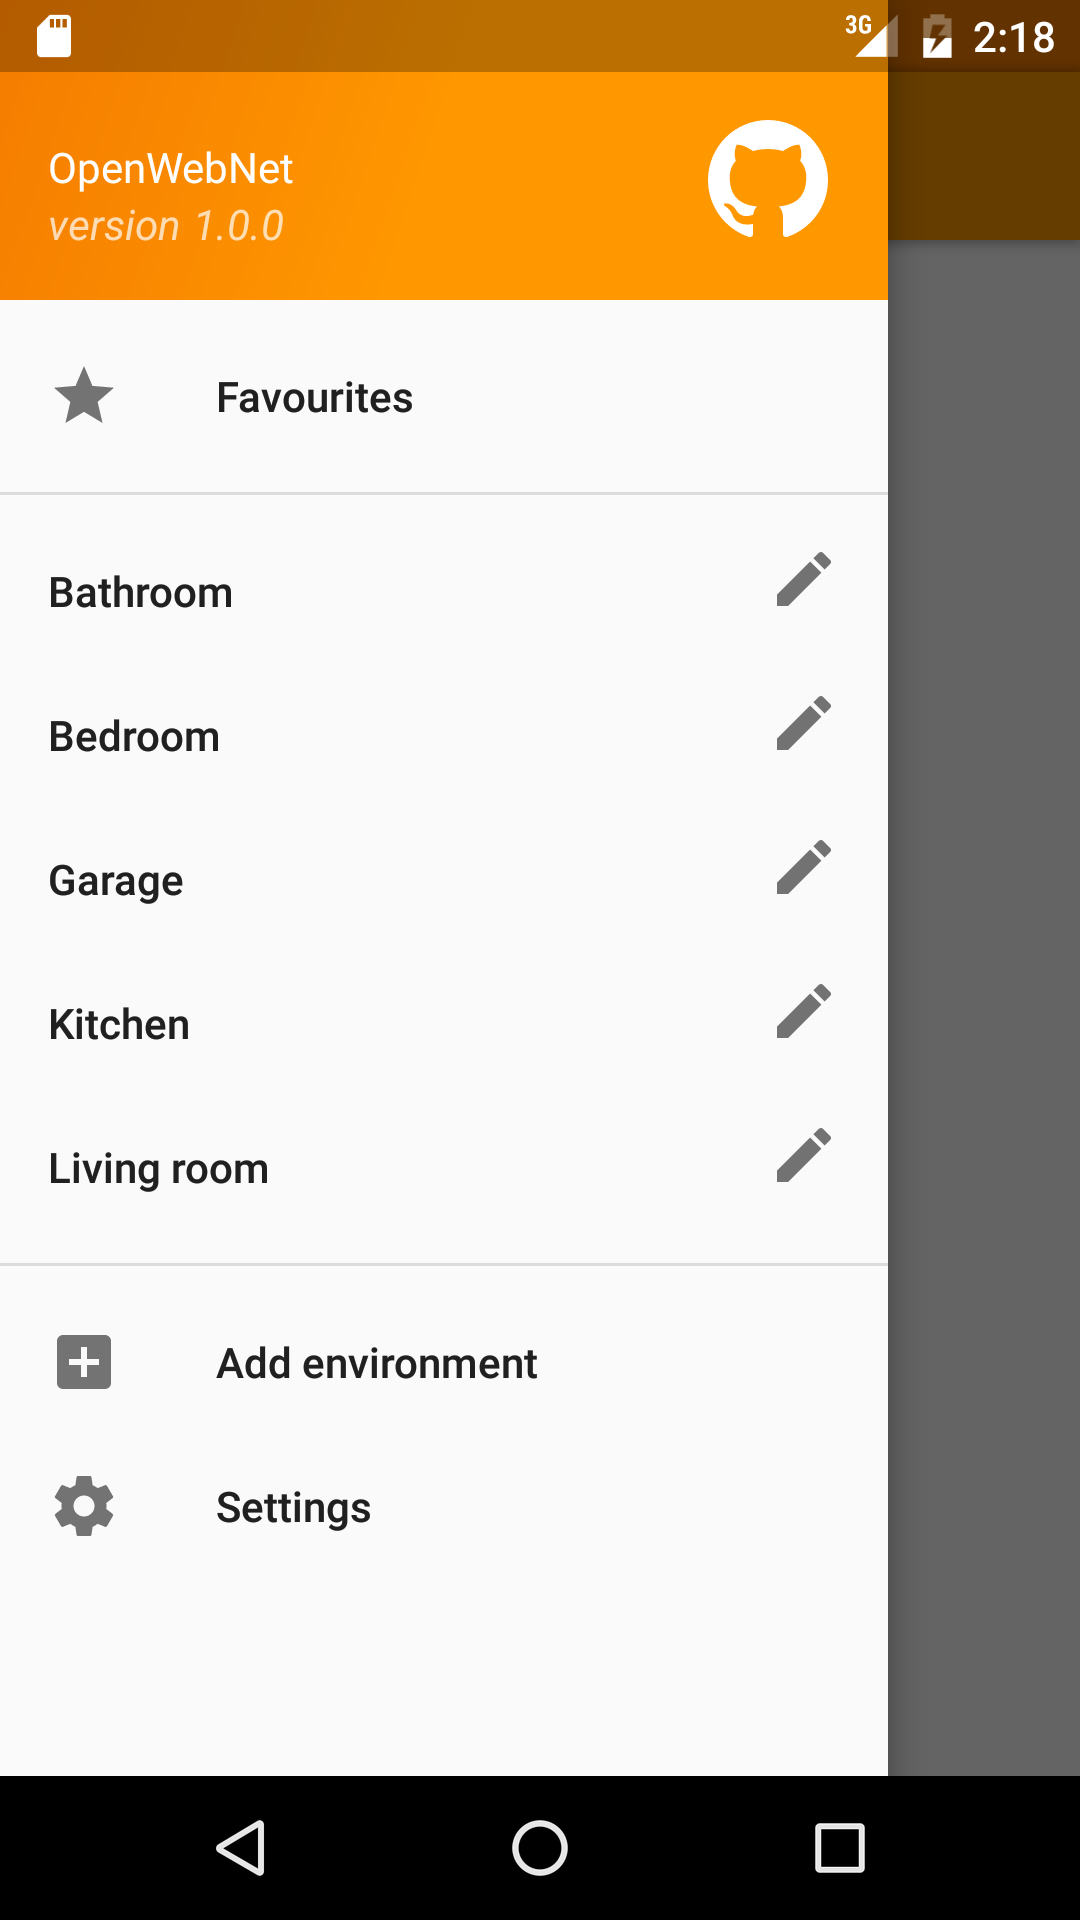
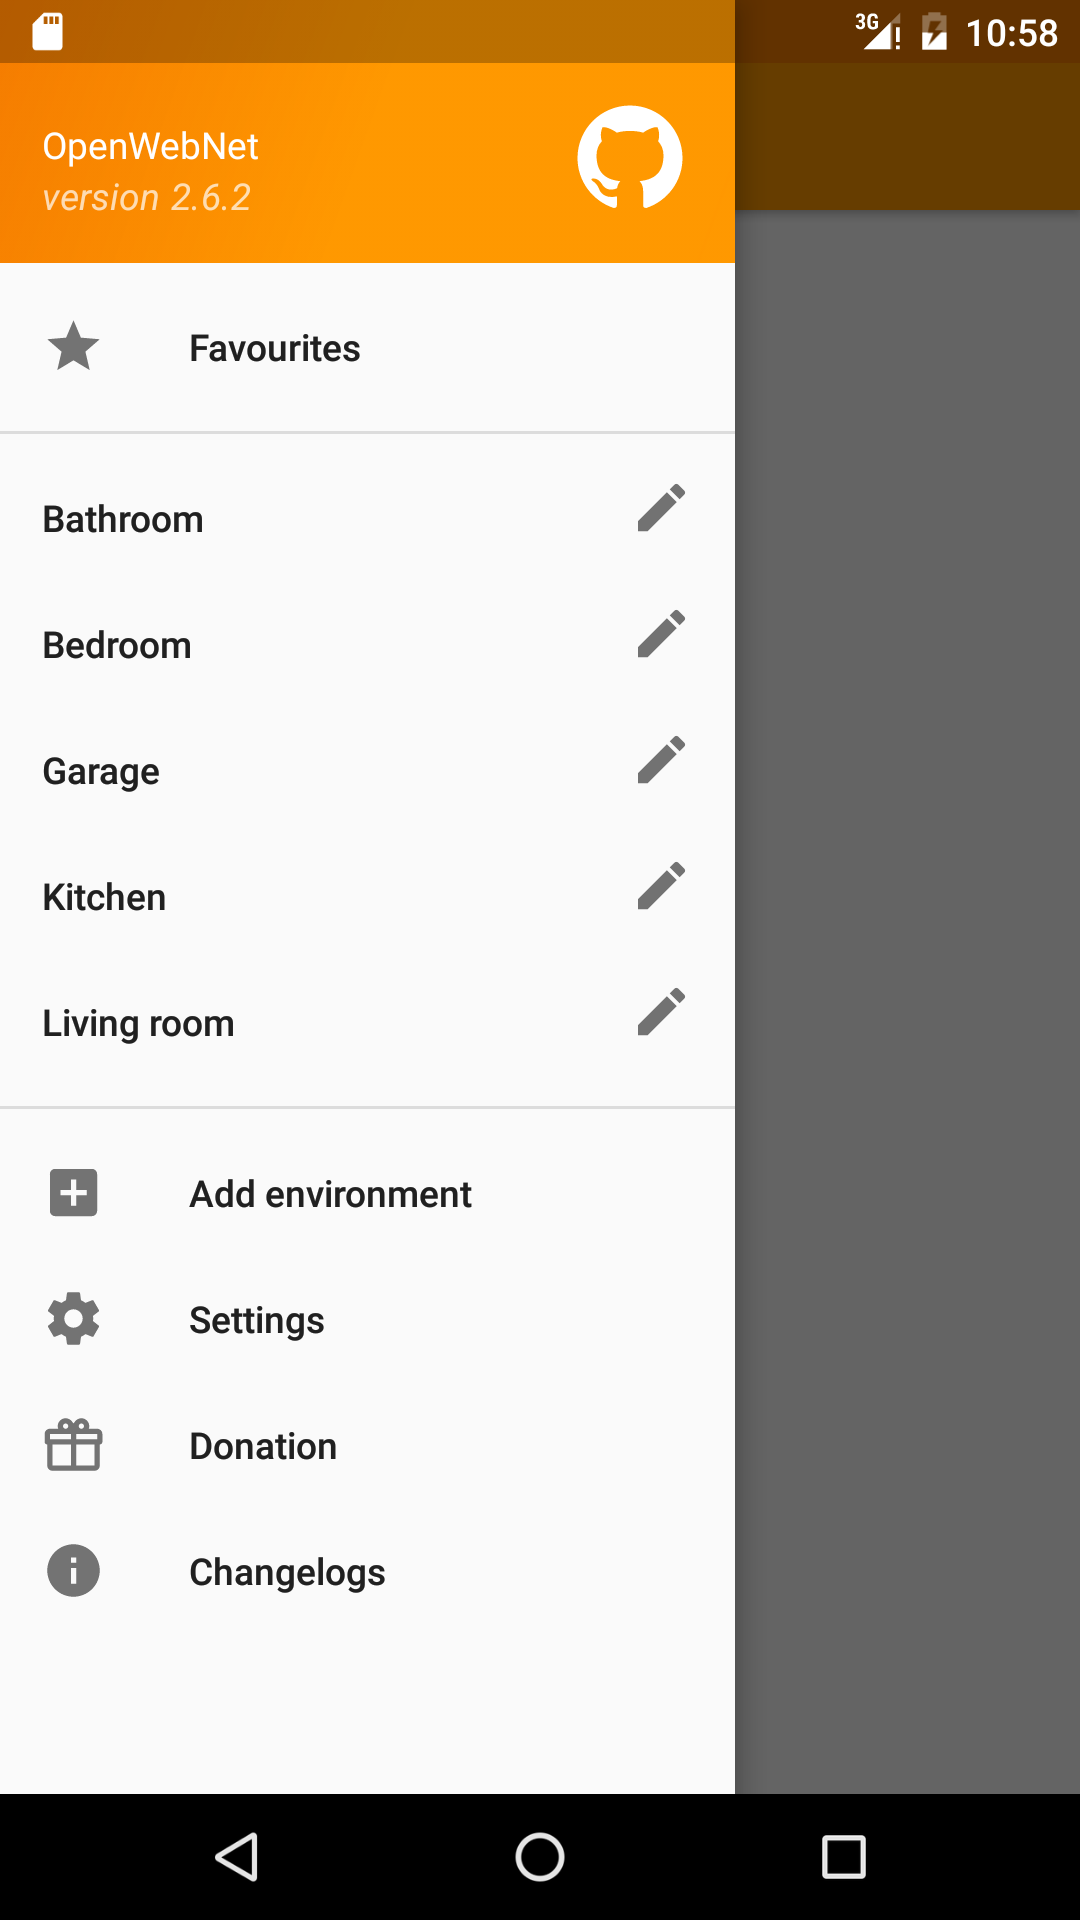
[release][2.6.2]

diff --git a/store-listing/st_fr.md b/store-listing/st_fr.md
@@ -26,4 +26,14 @@ Cette application Android est un client Open Source non officiel distribué sous
 
 L'intégralité du code source est disponible en ligne: https://github.com/openwebnet/openwebnet-android
 
+Si vous aimez cette application et sera utile s'il vous plaît envisager de faire un don. Quelques améliorations futures possibles:
+- Système audio / Radio
+- Gestion de l'énergie
+- Recherche rapide et le tri
+- Sauvegarde / Importation / Exportation des configurations
+
+Vous pouvez garder une trace de toutes la question ouverte https://github.com/openwebnet/openwebnet-android/issues
+
+Si vous trouvez un bug ou avez des suggestions ne pas laisser une note négative mais contactez-moi par e-mail, je vais essayer de vous aider.
+
 OpenWebNet est une marque BTicino enregistré.

diff --git a/store-listing/st_it.md b/store-listing/st_it.md
@@ -26,4 +26,14 @@ Quest'applicazione Android é un client Open Source non ufficiale completamente 
 
 Tutto il codice sorgente é disponibile online https://github.com/openwebnet/openwebnet-android
 
+Se ti piace quest'app e la trovi utile puoi fare una donazione. Alcuni possibili futuri sviluppi:
+- Diffusione sonore / Radio
+- Controllo energia
+- Ricerca rapida e ordinamento
+- Backup / Importazione / Esportazione delle configurazioni
+
+Puoi tener traccia di tutte le issue aperte https://github.com/openwebnet/openwebnet-android/issues
+
+Se trovi un bug o hai qualche suggerimento non lasciare un rating negativo ma contattami via mail, farò il possibile per aiutarti.
+
 OpenWebNet é un marchio registrato BTicino.

diff --git a/store-listing/st_en.md b/store-listing/st_en.md
@@ -26,4 +26,14 @@ This Android application is an unofficial free and Open Source client under MIT 
 
 All source code is available online https://github.com/openwebnet/openwebnet-android
 
+If you like this app and find it useful please consider making a donation. Some possible future improvements:
+- Sound System / Radio
+- Energy Management
+- Quick search and sorting
+- Backup / Import / Export configuration
+
+You can keep track of all the open issue https://github.com/openwebnet/openwebnet-android/issues
+
+If you find a bug or have any suggestions do not leave a negative rating but contact me via email, I will try to help you.
+
 OpenWebNet is a BTicino registered trademark.

diff --git a/README.md b/README.md
@@ -41,13 +41,17 @@ This Android application is an unofficial free and Open Source client under MIT 
 
 ### Changelog
 
+#### v2.6.2 (August 16, 2016)
+
+- Fix donation
+
 #### v2.6.1 (August 16, 2016)
 
-- TODO
+- Add donation feature
 
 #### v2.6.0 (August 11, 2016)
 
-- TODO
+- Add billing permission
 
 #### v2.5.1 (August 6, 2016)
 
